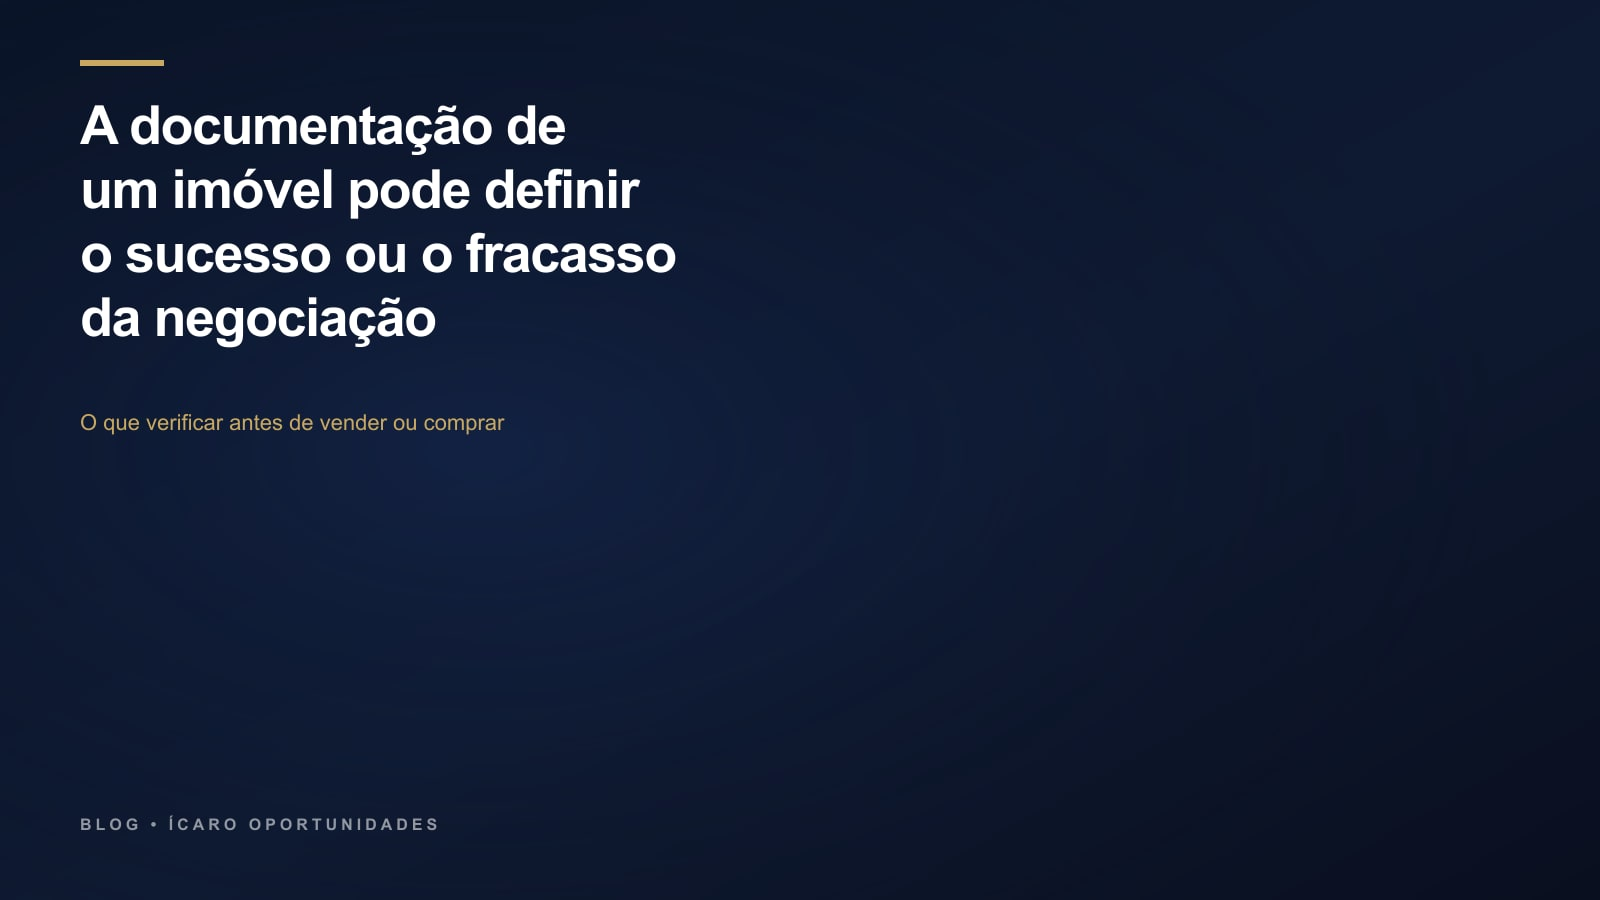
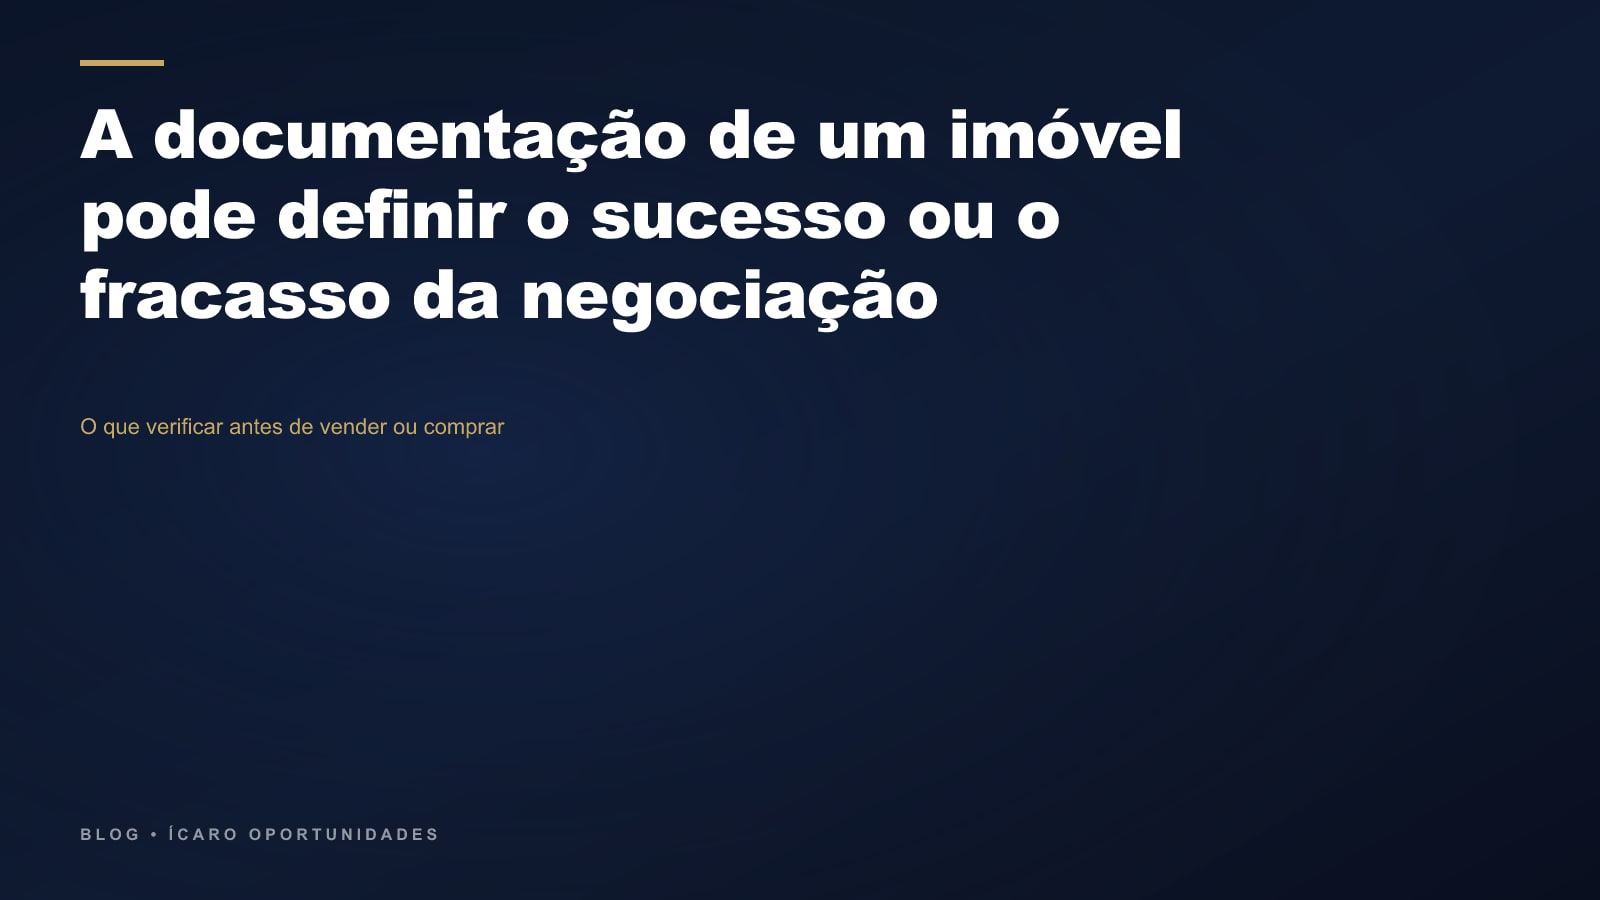
commits blog
commit blog tokenização e ciclos de mercado

Changed region(s): [[0.0312, 0.1244, 0.75, 0.4044], [0.0312, 0.4667, 0.3125, 0.4978], [0.0312, 0.9022, 0.2812, 0.9333]]

diff --git a/src/content/blog/como-avaliamos-imoveis-caixa.md b/src/content/blog/como-avaliamos-imoveis-caixa.md
@@ -2,7 +2,7 @@
 title: "Como avaliamos imóveis da Caixa: o método por trás da curadoria"
 slug: "como-avaliamos-imoveis-caixa"
 excerpt: "Entenda os 5 critérios que utilizamos para separar uma boa oportunidade de um mau negócio nos imóveis do banco."
-cover: ""
+cover: "/blog/capa-como-avaliamos-imoveis-caixa.jpg"
 author: "Ícaro"
 publishedAt: "2026-06-10"
 tags: ["Caixa", "Curadoria", "Avaliação"]
